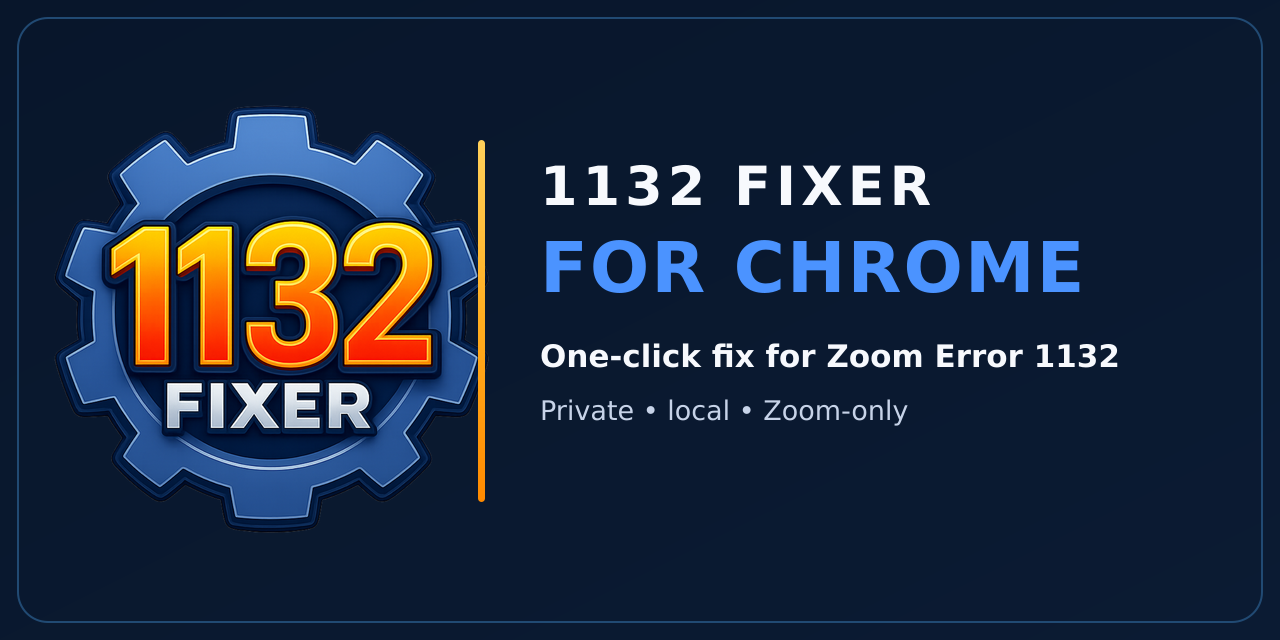
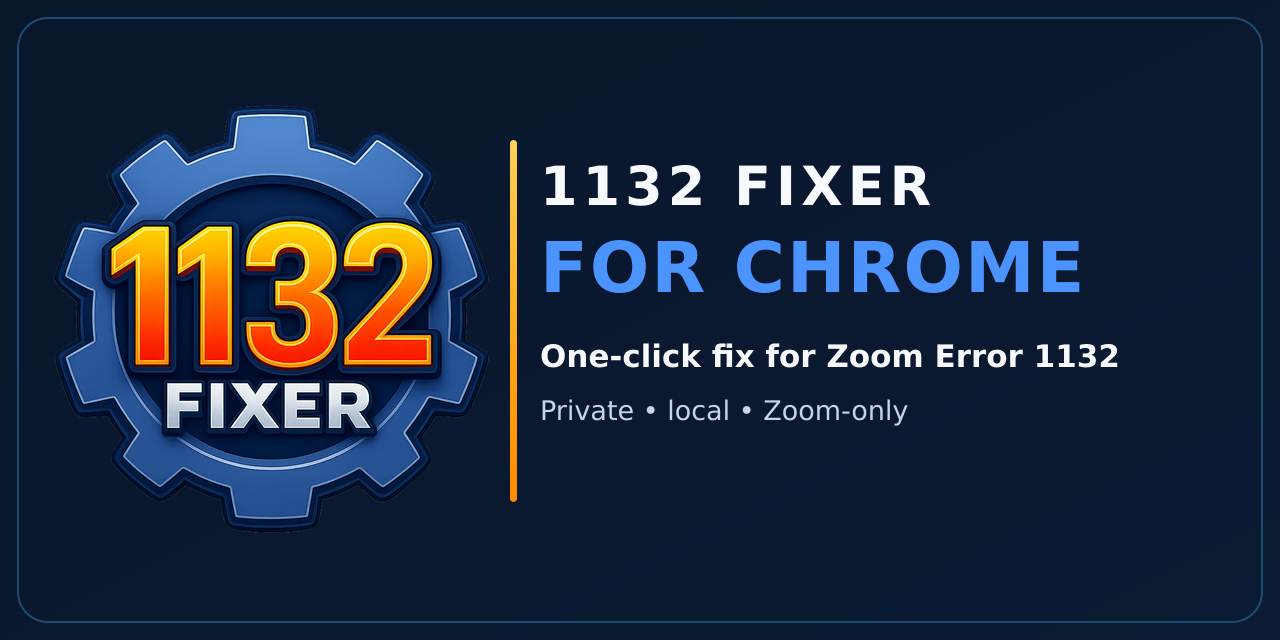
feat(brand): branding-correction directive — corrected card, locked tagline, OG image
Operator branding-correction directive (2026-08-07), Chrome slice:

- assets/social-preview.png + .svg replaced with the corrected Chrome card
  from the verified ZIP (divider x="510", no logo holder; 1280x640 <1MB;
  sibling transparent logo already byte-identical in assets/).
- popup.html logo-desc: "Zoom Cookie Cleaner" replaced with the locked
  tagline "One-click fix for Zoom Error 1132". Verified served at 360px:
  renders one line (252x16px at 12px), no horizontal overflow, footer row
  intact; 200% checked via zoom emulation (line-stable; true-zoom pass
  stays on the operator visual checklist).
- _layouts/default.html: og:image now the corrected 1280x640 card;
  twitter:card upgraded to summary_large_image.

Already compliant, verified untouched: popup logo CSS carries no holder
(transparent, border 0, radius 0, no shadow/filter); zero banned taglines
anywhere in the tree; framed toolbar/store icon family untouched.

Changed region(s): [[0.375, 0.2188, 0.4062, 0.7812]]

diff --git a/_layouts/default.html b/_layouts/default.html
@@ -12,8 +12,8 @@
 <meta property="og:type" content="website">
 <meta property="og:title" content="{% if page.title %}{{ page.title }}{% else %}{{ site.title }}{% endif %}">
 <meta property="og:description" content="{{ page.description | default: site.description }}">
-<meta property="og:image" content="{{ '/icons/icon128.png' | relative_url }}">
-<meta name="twitter:card" content="summary">
+<meta property="og:image" content="{{ '/assets/social-preview.png' | relative_url }}">
+<meta name="twitter:card" content="summary_large_image">
 
 <link rel="icon" type="image/png" href="{{ '/icons/icon128.png' | relative_url }}">
 <link rel="stylesheet" href="{{ '/assets/site.css' | relative_url }}">

diff --git a/popup.html b/popup.html
@@ -15,7 +15,7 @@
     <img class="logo-mark" src="icons/popup-logo.png" alt="" width="64" height="64">
     <span class="logo-title">1132 FIXER</span>
     <div class="logo-sep" aria-hidden="true"></div>
-    <span class="logo-desc">Zoom Cookie Cleaner</span>
+    <span class="logo-desc">One-click fix for Zoom Error 1132</span>
   </header>
 
   <main class="main">
